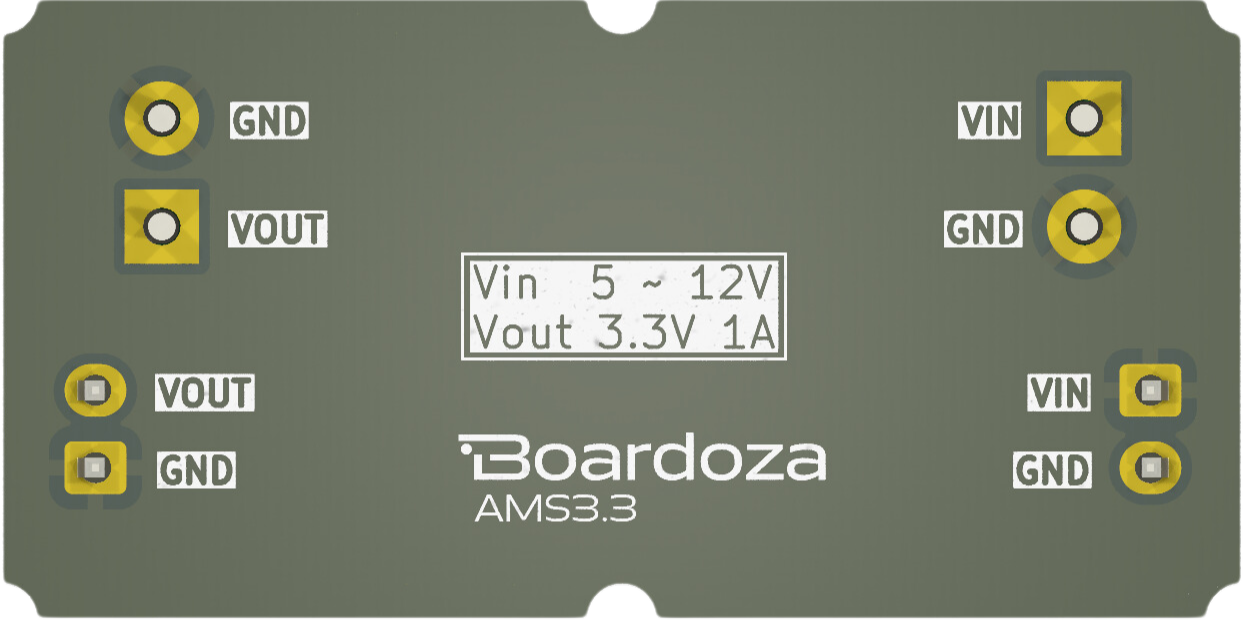
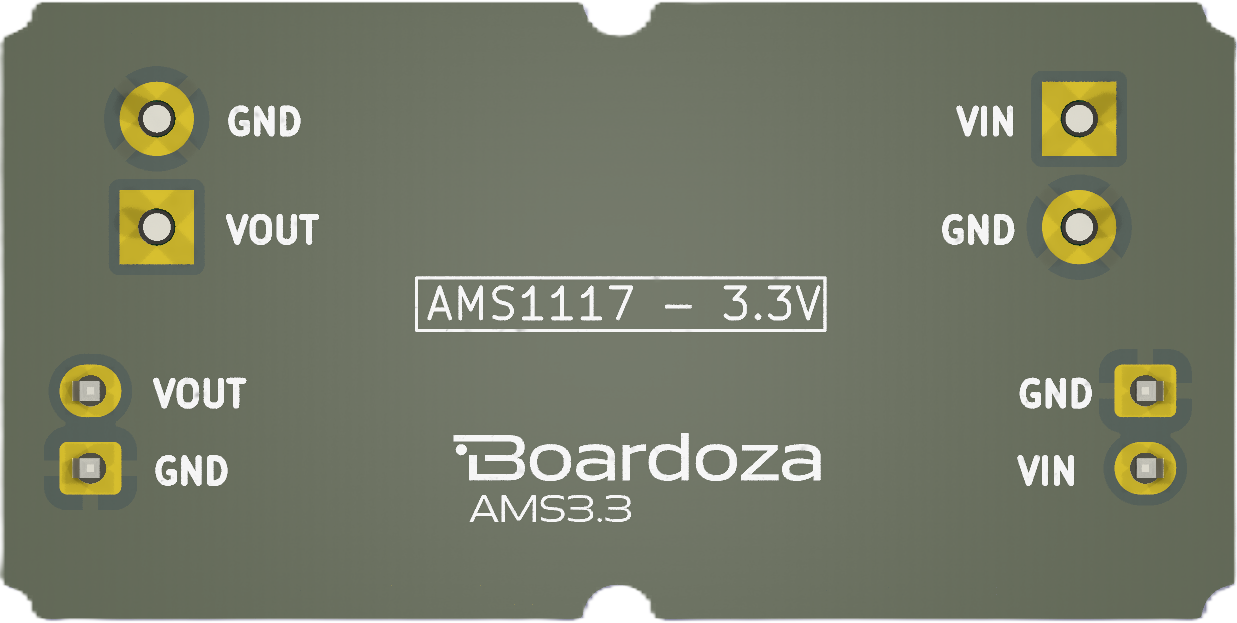
Update images and improve README.md formatting for AMS1117 3V module

diff --git a/README.md b/README.md
@@ -6,7 +6,7 @@ The **Boardoza AMS1117 3V3 Voltage Regulator Module** is a **low-dropout (LDO) l
 
 | Front Side | Back Side |
 | :---: | :---: |
-| ![AMS1117-3 Front](./assets/AMS1117-3V%20Front.png)| ![AMS1117-3 Back](./assets/AMS1117-3V%20Back.png)|
+| ![AMS1117-3 Front](./assets/AMS1117-3%20Front.png)| ![AMS1117-3 Back](./assets/AMS1117-3V%20Back.png)|
 
 ---
 
@@ -42,17 +42,18 @@ The **Boardoza AMS1117 3V3 Voltage Regulator Module** is a **low-dropout (LDO) l
 
 ## Board Pinout
 
-| J1 & J3 Pin Number | Pin Name | Description |
+### **( J1 & J3 ) Voltage Input Connectors**
+
+| Pin Number | Pin Name | Description |
 | :---: | :---: | :---: |
 | 1 | VIN | Voltage Input |
 | 2 | GND | Ground |
 
-| J2 Pin Number | Pin Name | Description |
-| :---: | :---: | :---: |
-| 1 | GND | Ground |
-| 2 | VOUT | Voltage Output |
+---
 
-| J4 Pin Number | Pin Name | Description |
+### **( J2 & J4 ) Voltage Output Connectors**
+
+| Pin Number | Pin Name | Description |
 | :---: | :---: | :---: |
 | 1 | VOUT | Voltage Output |
 | 2 | GND | Ground |
@@ -61,13 +62,13 @@ The **Boardoza AMS1117 3V3 Voltage Regulator Module** is a **low-dropout (LDO) l
 
 ## Board Dimensions
 
-<img src="./assets/AMS1117-3 Dimension.png" alt="AMS1117 3.3V Dimension" width="430"/>
+<img src="./assets/AMS1117-3V Dimension.png" alt="AMS1117 3.3V Dimension" width="430"/>
 
 ---
 
 ## Step Files
 
-[Boardoza AMS1117 3.3V.step](./assets/AMS1117-3.step)
+[Boardoza AMS1117 3.3V.step](./assets/AMS1117-3%20Step.step)
 
 ---
 
